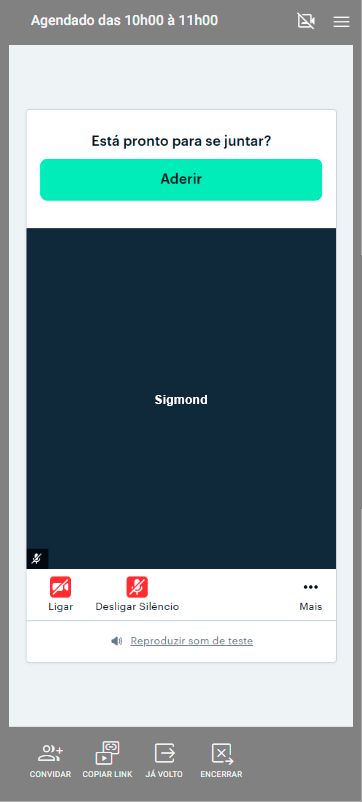
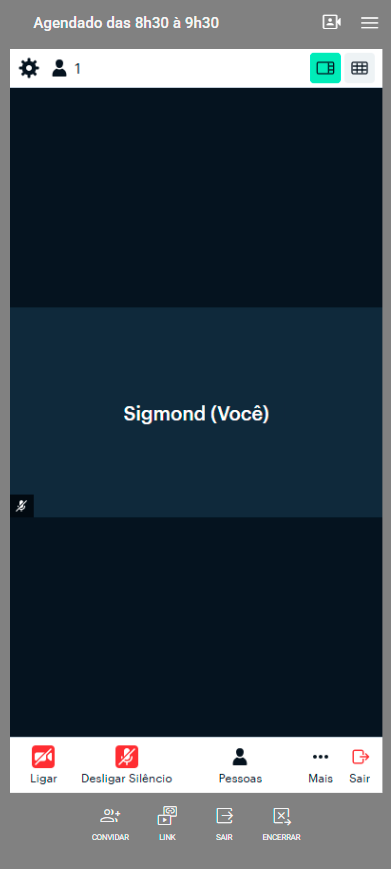
nilson

diff --git a/docs/08_funcionalidades/04-atendimentos/12-teleatendimento.md b/docs/08_funcionalidades/04-atendimentos/12-teleatendimento.md
@@ -2,73 +2,77 @@
 sidebar_position: 12
 ---
 
-# Teleatendimento
+# 💻 Teleatendimento
 
-O **eConsult** possui integração nativa com o **Daily.co**, uma plataforma moderna, estável e segura para **teleatendimento profissional**. 
-
-Essa integração foi projetada para permitir que o psicólogo realize **consultas online diretamente pelo eConsult**, sem depender de aplicativos externos, instalações ou configurações complexas.
+O **eConsult** possui integração nativa com o **Daily.co**, uma plataforma moderna, estável e segura para **teleatendimento profissional**.  
+Essa integração foi projetada para que o psicólogo realize **consultas online diretamente pelo eConsult**, sem depender de aplicativos externos, instalações ou configurações complexas.
 
 Com o **Daily.co**, você conta com:
 
-- Áudio e vídeo de **alta qualidade**
-- Conexão **estável e criptografada**
-- Compatibilidade com **computadores, tablets e celulares**
+- Áudio e vídeo de **alta qualidade**  
+- Conexão **estável e criptografada**  
+- Compatibilidade com **computadores, tablets e celulares**  
 - Interface simples e intuitiva, tanto para o **profissional** quanto para o **paciente**
 
 ---
 
-## Requisitos
+## ⚙ Requisitos
 
-Para usar esta funcionalidade você deve ter uma conta na Daily.co e esta conta deve estar integrada ao eConsult. Os procedimentos para isso você pode encontrar [aqui](/docs/funcionalidades/configuracoes/integracoes/daily).
-
----
-
-## Criando e entrando numa sala de teleatendimento
-
-1. Acione a opção ![Atendimento](../../../static/img/prints/buttons/btn_card-edit.png) no *card* do atendimento que deseja o teleatendimento.
-
-1. Confirme se o atendimento está na modalidade "Remoto".
-
-    :::warning
-    A funcionalidade de teleatendimento é só para atendimentos remotos.
-    :::
-
-1. Clique no botão "Teleatendimento".
-
-1. O sistema fechará a tela e mostrará em azul vivo a opção "Teleatendimento" ![Tela da sala de teleatendimento](../../../static/img/prints/teleatendimento/001.png).
-
-![Tela da sala de teleatendimento](../../../static/img/prints/teleatendimento/002.png)
-_Versão mobile_
-
-![Tela da sala de teleatendimento](../../../static/img/prints/teleatendimento/003.png)
-_Versão desktop_
-
-1. Clique sobre esta opção e o sistema abrirá a sala virtual de teleatedimento Daily.co.
+Para utilizar esta funcionalidade, é necessário possuir uma conta ativa no **Daily.co**, devidamente integrada ao **eConsult**.  
+Você pode consultar o passo a passo para configurar essa integração [aqui](/docs/funcionalidades/configuracoes/integracoes/daily).
 
 ---
 
-## Dentro da sala de teleatendimento Daily.co
+## 🗓 Criando e acessando uma sala de teleatendimento
 
-Ao acessar a sala Daily.co, você verá a tela principal de videoconferência, com o nome do profissional e os seguintes controles:
+1. Clique no botão ![Atendimento](../../../static/img/prints/buttons/btn_card-edit.png) no *card* do atendimento desejado.  
+2. Verifique se o atendimento está configurado como **“Remoto”**.
 
-- **Ligar/Desligar câmera**
-- **Ativar/Desativar microfone**
-- **Convidar paciente**  
-  (gera o link direto de acesso)
-- **Copiar link**  
-  (para envio manual via WhatsApp, e-mail, etc.)
-- **Encerrar sessão**
+   :::warning
+   A funcionalidade de teleatendimento está disponível **somente** para atendimentos remotos.
+   :::
+
+3. Clique em **“Teleatendimento”**.  
+4. O sistema fechará a tela e exibirá o botão **“Teleatendimento”** em azul, indicando que a sala está disponível:
+
+   ![Tela da sala de teleatendimento](../../../static/img/prints/teleatendimento/001.png)
+
+   _Visão mobile_
+
+   ![Tela da sala de teleatendimento](../../../static/img/prints/teleatendimento/002.png)
+
+   _Visão desktop_
+
+   ![Tela da sala de teleatendimento](../../../static/img/prints/teleatendimento/003.png)
+
+5. Clique sobre essa opção para abrir a sala virtual de teleatendimento **Daily.co**.
 
 ---
 
-## Envio do link ao paciente
+## 🗣 Dentro da sala de teleatendimento
+
+Ao acessar a sala, você verá o horário agendado e os seguintes controles:
+
+- **Ligar/Desligar câmera** – ativa ou desativa a câmera do seu dispositivo.  
+- **Ativar/Desativar microfone** – ativa ou desativa o microfone.  
+- **Pessoas** – exibe os participantes conectados à sala.  
+- **Conversa** – abre o chat integrado.  
+- **Definições** – permite ajustar câmera e microfone.  
+- **Convidar** – envia convites por e-mail.  
+- **Link** – copia o link da sessão para compartilhamento manual.  
+- **Sair** – permite sair sem encerrar a sessão.  
+- **Encerrar** – finaliza definitivamente o teleatendimento.
+
+---
+
+## ✉ Envio do link ao paciente
 
 O link de teleatendimento pode ser:
 
-1. **Enviado automaticamente** por e-mail, se o paciente possuir e-mail cadastrado; ou  
-2. **Copiado manualmente** pelo botão **“Copiar link”** na tela da sala.
+1. **Enviado automaticamente por e-mail**, se o paciente possuir e-mail cadastrado; ou  
+2. **Copiado manualmente**, utilizando o botão **“Link”** na tela da sala.
 
-O paciente acessa o link **diretamente pelo navegador**, sem precisar instalar aplicativos, criar conta ou realizar login.
+O paciente acessa a sessão **diretamente pelo navegador**, sem precisar instalar aplicativos, criar conta ou realizar login.
 
 ---
 
@@ -76,33 +80,78 @@ O paciente acessa o link **diretamente pelo navegador**, sem precisar instalar a
 
 A integração com o **Daily.co** segue rigorosamente os princípios de **sigilo profissional** e **conformidade com a LGPD**:
 
-- Criptografia ponta a ponta (E2EE)  
+- Criptografia ponta a ponta (**E2EE**)  
 - Links únicos e intransferíveis por sessão  
 - Nenhum dado audiovisual armazenado pelo eConsult  
-- Controle total pelo profissional sobre início e término da sessão
+- Controle total do profissional sobre início e término da sessão
+
+> 🔒 O eConsult não grava, processa ou armazena conteúdo audiovisual, garantindo ética e privacidade no atendimento psicológico.
 
 ---
 
-:::tip Dicas práticas
+:::tip 💡 Dicas práticas
 
 - Antes do atendimento, teste câmera e microfone com o botão **“Reproduzir som de teste”**.  
-- Mantenha seu navegador atualizado (Chrome, Edge ou Safari).  
-- Utilize **fones de ouvido** para melhor qualidade de som e privacidade.  
+- Mantenha o navegador atualizado (Chrome, Edge ou Safari).  
+- Utilize **fones de ouvido** para mais privacidade e melhor qualidade de áudio.  
 - Evite conexões Wi-Fi públicas ou instáveis.  
 - O paciente pode acessar pelo **celular**, basta abrir o link em qualquer navegador moderno.
 
 :::
 
-## Planos e limites do Daily.co
+---
+
+## 🎥 Durante o atendimento
+
+Durante a sessão online, o psicólogo pode:
+
+- Iniciar e gerenciar a videoconferência diretamente pelo **eConsult**.  
+- Acessar e editar dados do paciente, incluindo **cadastro**, **prontuário**, **atendimentos**, **faturas** e **anotações clínicas**.  
+- Registrar **avaliações psicológicas**, **anotações**, **arquivos anexos** e **lembretes** diretamente durante a sessão.
+
+> 🔒 Todos os dados e registros da consulta são criptografados e visíveis apenas ao psicólogo.
+
+---
+
+## 📊 Planos e limites do Daily.co
 
 O **Daily.co** oferece:
 
-- **10.000 minutos gratuitos por mês**, equivalentes a cerca de:
+- **10.000 minutos gratuitos por mês**, o que equivale aproximadamente a:
   - **5 atendimentos de 1 hora por dia**, durante todos os dias úteis.  
-- Caso ultrapasse o limite, você pode contratar planos adicionais diretamente na plataforma [Daily.co](https://www.daily.co/pricing).
+
+Caso ultrapasse o limite gratuito, é possível contratar planos adicionais diretamente no site [Daily.co](https://www.daily.co/pricing).
+
+---
+
+## 🧭 Análise da funcionalidade
+
+O módulo de **Teleatendimento do eConsult** é **conceitualmente bem resolvido e tecnicamente robusto**.
+
+### ⚙ Design funcional
+- Integração direta com o **fluxo clínico** — o teleatendimento é uma extensão natural do agendamento, sem exigir telas ou módulos externos.  
+- **Experiência unificada** — link, prontuário, notas e encerramento fazem parte do mesmo fluxo.  
+- **Interface responsiva** — ideal para psicólogos em home office ou deslocamento.
+
+### 🔒 Segurança e ética
+- O uso do **Daily.co** assegura **criptografia ponta a ponta (E2EE)**.  
+- Links são **únicos por sessão** e controlados exclusivamente pelo profissional.  
+- O eConsult **não grava vídeos nem áudios**, garantindo conformidade com o **CFP** e a **LGPD**.
+
+### 💡 Usabilidade
+- Fluxo de **um clique** para iniciar.  
+- Botão azul com **feedback visual imediato**.  
+- Integração com notificações por e-mail/WhatsApp e opção de link manual.  
+- Recomendação futura: adicionar um **pré-check técnico** (teste automático de áudio/vídeo) para usuários menos experientes.
+
+### 📈 Escalabilidade e operação
+- O limite gratuito de **10 mil minutos/mês** cobre a maioria das práticas individuais.  
+- Clínicas podem ampliar capacidade adquirindo recursos adicionais.  
+- O sistema já está preparado para múltiplos profissionais em diferentes contas Daily.
 
 ---
 
 ## ✅ Conclusão
 
-O **Teleatendimento via Daily.co** no **eConsult** oferece uma experiência integrada, prática e ética, mantendo o foco no que realmente importa: o cuidado psicológico e o sigilo profissional.
+O **Teleatendimento via Daily.co** no **eConsult** oferece uma experiência **integrada, prática e ética**, mantendo o foco no que realmente importa:  
+**o cuidado psicológico, a privacidade do paciente e o sigilo profissional.**
